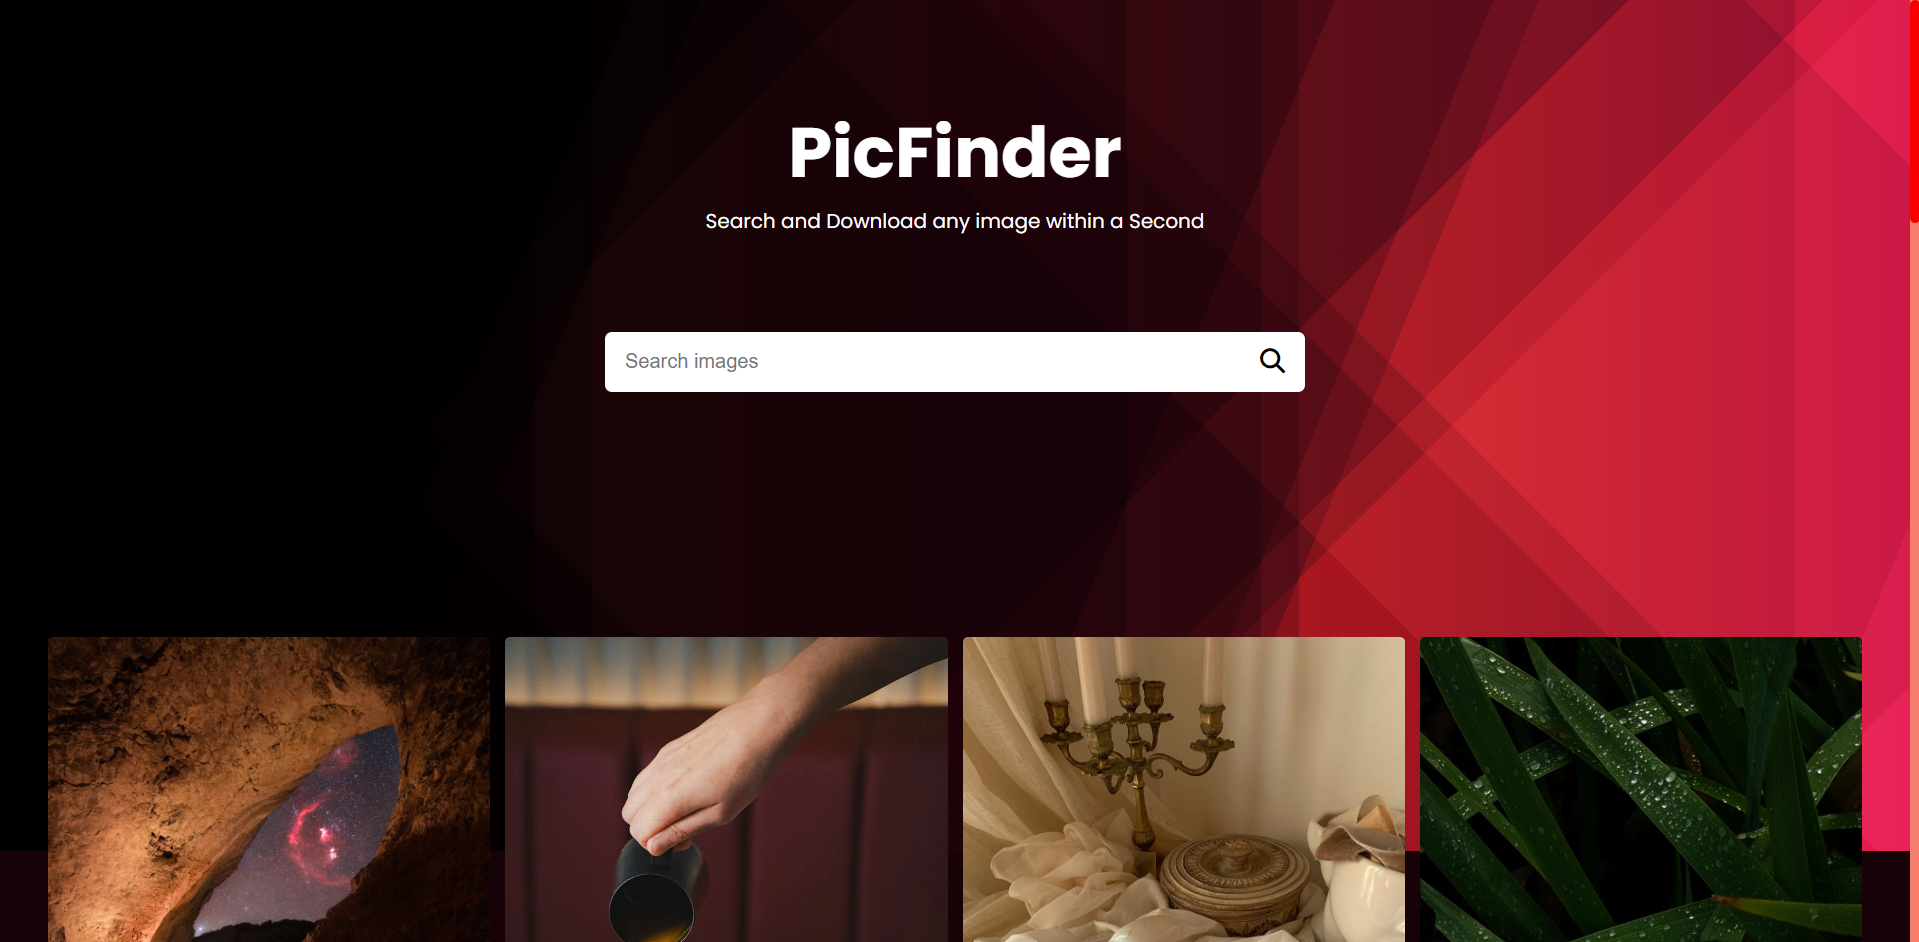
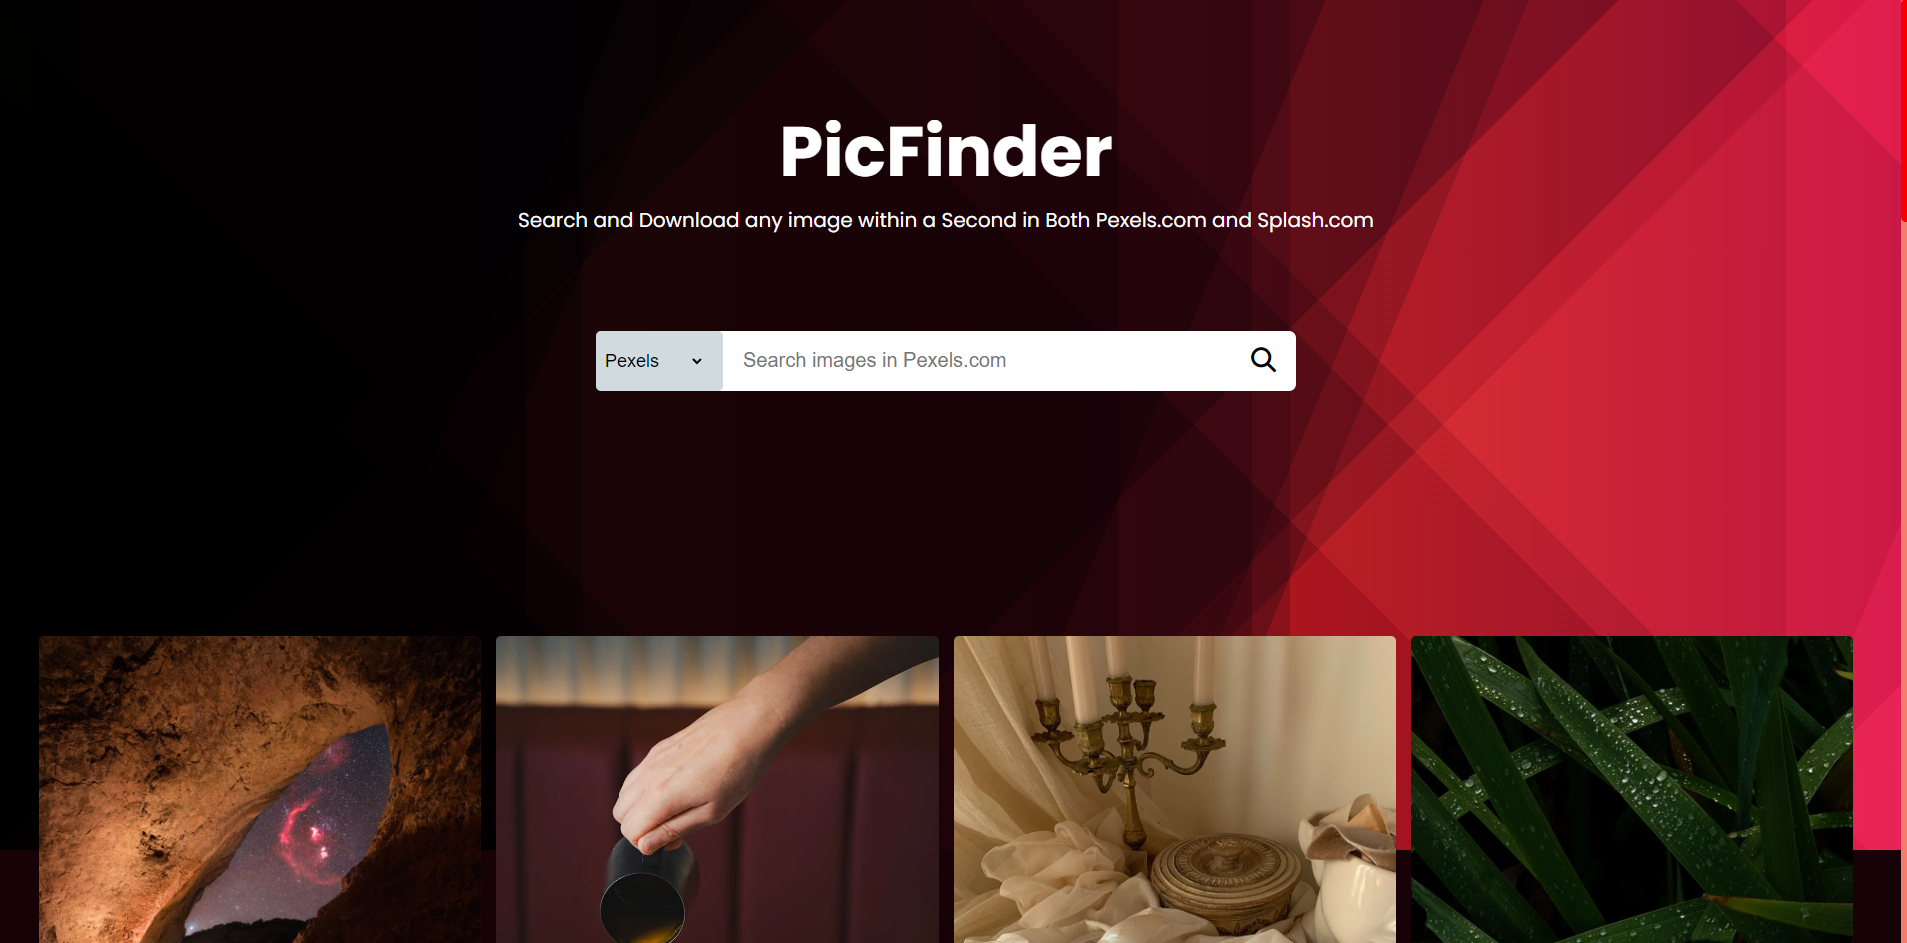
new features added

diff --git a/app.js b/app.js
@@ -5,11 +5,14 @@ const searchBtn = document.querySelector(".searchBtn");
 const lightBox = document.querySelector(".light-box");
 const closeBtn = lightBox.querySelector(".fa-xmark");
 const downloadBtn = lightBox.querySelector(".fa-download");
+const api = document.querySelector("#api");
 
-const pexelApiKey = "##################################";
+const pexelApiKey = "Su3lhzflU6mYsBsVqqfdXFP7kuoQaMGpH7PrJVYOzx8wLmQlUjOYf8VF";
+const splashApiKey ="2BsfBnNAfcAGF3oX4F_fRIlYnOXYBGYyJpeHfo8AWp4";
 
 const perPage = 20;
-let currentPage = 1;
+let currentPageP = 1;
+let currentPageS = 1;
 let searchTerm = null;
 
 
@@ -22,9 +25,7 @@ const downloadImg = (url)=>{
 
                 aTag.href = URL.createObjectURL(file);
 
-                aTag.download = new Date().getTime() //file name
-
-                //clicking <a> tag so the file download
+                aTag.download = new Date().getTime()
                 aTag.click();
 
             })
@@ -41,7 +42,7 @@ const showLightBox = (photographer, imgURL) =>{
 }
 
 
-const generateHTML = (images) =>{
+const generateHTMLPexels = (images) =>{
     imageBox.innerHTML += images.map(image =>
         `<li class="card">
             <img src="${image.src.large2x}" alt="" onclick="showLightBox('${image.photographer}', '${image.src.large2x}')">
@@ -58,9 +59,26 @@ const generateHTML = (images) =>{
     ).join("");
 }
 
+const generateHTMLSplash = (images) =>{
+    imageBox.innerHTML += images.map(image =>
+        `<li class="card">
+            <img src="${image.urls.regular}" alt="" onclick="showLightBox('${image.user.name}', '${image.urls.regular}')">
+            <div class="details">
+                <div class="photographer">
+                    <i class="fa-solid fa-camera"></i>
+                    <span>${image.user.name}</span>
+                </div>
+                <button onclick="downloadImg('${image.urls.regular}'); event.stopPropagation();">
+                    <i class="fa-solid fa-download" style="color: #000;"></i>
+                </button>
+            </div>
+        </li>`
+    ).join("");
+}
 
 
-async function getImages(apiURL){
+
+async function getImagesPexels(apiURL){
 
     loadmoreBtn.textContent = "Loading...";
     loadmoreBtn.classList.add("disabled");
@@ -68,7 +86,37 @@ async function getImages(apiURL){
     await fetch(apiURL, {
         headers: {Authorization: pexelApiKey}
     }).then(res => res.json()).then(data => {
-        generateHTML(data.photos);
+        generateHTMLPexels(data.photos);
+        loadmoreBtn.textContent = "Load More";
+        loadmoreBtn.classList.remove("disabled");
+    }).catch(()=>
+        alert("Failed to load images!!!")
+    )
+
+}
+
+async function getImagesSplash(apiURL){
+
+    loadmoreBtn.textContent = "Loading...";
+    loadmoreBtn.classList.add("disabled");
+
+    await fetch(apiURL).then(res => res.json()).then(data => {
+        generateHTMLSplash(data);
+        loadmoreBtn.textContent = "Load More";
+        loadmoreBtn.classList.remove("disabled");
+    }).catch(()=>
+        alert("Failed to load images!!!")
+    )
+}
+
+async function getImagesSplashsearch(apiURL){
+
+    loadmoreBtn.textContent = "Loading...";
+    loadmoreBtn.classList.add("disabled");
+
+    await fetch(apiURL).then(res => res.json()).then(data => {
+        generateHTMLSplash(data.results);
+        console.log(data)
         loadmoreBtn.textContent = "Load More";
         loadmoreBtn.classList.remove("disabled");
     }).catch(()=>
@@ -78,24 +126,58 @@ async function getImages(apiURL){
 }
 
 const loadmoreImages = () =>{
-    currentPage++;
-    let apiURL = `https://api.pexels.com/v1/curated?page=${currentPage}&per_page=${perPage}`;
-    apiURL = searchTerm ? `https://api.pexels.com/v1/search?query=${searchTerm}&page=${currentPage}&per_page=${perPage}` : apiURL;
-    getImages(apiURL);
-
+    if(api.value === "pexels"){
+        currentPageP++;
+        let apiURL = `https://api.pexels.com/v1/curated?page=${currentPageP}&per_page=${perPage}`;
+        apiURL = searchTerm ? `https://api.pexels.com/v1/search?query=${searchTerm}&page=${currentPageP}&per_page=${perPage}` : apiURL;
+        getImagesPexels(apiURL);
+    }
+    else{
+        currentPageS++;
+        let apiURL = `https://api.unsplash.com/photos?page=${currentPageS}&per_page=${perPage}&client_id=${splashApiKey}`;
+        apiURL = searchTerm ? `https://api.unsplash.com/search/photos?page=${currentPageS}&query=${searchTerm}&per_page=${perPage}&client_id=${splashApiKey}` : apiURL;
+        if(searchTerm != null){
+            getImagesSplashsearch(apiURL);
+        }
+        else{getImagesSplash(apiURL);}
+    }
 }
 
 
 const loadSearchImages = () =>{
     if(searchInput.value === "") return searchTerm = null;
-    currentPage = 1;
-    searchTerm = searchInput.value;
-    imageBox.innerHTML = "";
-    getImages(`https://api.pexels.com/v1/search?query=${searchTerm}&page=${currentPage}&per_page=${perPage}`)
+
+    if(api.value === "pexels"){
+        currentPageP = 1;
+        searchTerm = searchInput.value;
+        imageBox.innerHTML = "";
+        getImagesPexels(`https://api.pexels.com/v1/search?query=${searchTerm}&page=${currentPageP}&per_page=${perPage}`)
+    }
+    else if(api.value === "splash"){
+        currentPageS = 1;
+        searchTerm = searchInput.value;
+        imageBox.innerHTML = "";
+        getImagesSplashsearch(`https://api.unsplash.com/search/photos?page=${currentPageS}&query=${searchTerm}&per_page=${perPage}&client_id=${splashApiKey}`)
+    }
 }
 
 
-getImages(`https://api.pexels.com/v1/curated?page=${currentPage}&per_page=${perPage}`);
+getImagesPexels(`https://api.pexels.com/v1/curated?page=${currentPageP}&per_page=${perPage}`);
+
+api.addEventListener("change", ()=>{
+    if(api.value == 'splash'){
+        imageBox.innerHTML = "";
+        searchInput.value = "";
+        searchInput.placeholder = "Search images in Splash.com";
+        getImagesSplash(`https://api.unsplash.com/photos?page=${currentPageS}&per_page=${perPage}&client_id=${splashApiKey}`)
+    }
+    else{
+        imageBox.innerHTML = "";
+        searchInput.value = "";
+        searchInput.placeholder = "Search images in Pexels.com";
+        getImagesPexels(`https://api.pexels.com/v1/curated?page=${currentPageP}&per_page=${perPage}`);
+    }
+})
 
 loadmoreBtn.addEventListener("click", (e)=>{
     e.preventDefault()

diff --git a/style.css b/style.css
@@ -81,6 +81,33 @@ html, body{
     align-items: center;
 }
 
+.apis{
+  height: 60px;
+  width: 18%;
+  padding: 5px;
+  background-color: rgb(208, 218, 223);
+  border-radius: 5px 5px;
+  flex: 0.5;
+}
+select:focus {
+  outline:none;
+}
+
+#api{
+  height: 50px;
+  color: black;
+  border: 0;
+  font-size: 18px;
+  width: 90%;
+  background: transparent;
+}
+
+#api option{
+  color: black;
+  font-size: 18px;
+}
+
+
 .input-box input{
     background: transparent;
     border: 0;
@@ -90,6 +117,7 @@ html, body{
     font-size: 20px;
     padding: 20px;
     color: black;
+    flex: 2;
 }
 
 input:-webkit-autofill,
@@ -291,4 +319,23 @@ i{
     width: 100%;
     object-fit: contain;
     height: 100%;
+  }
+
+  @media screen and (max-width: 600px){
+    .input-box{
+      margin-top: 15%;
+    }
+    .apis{
+      flex: 1.3;
+    }
+    #api{
+      font-size: 15px;
+      font-weight: 700;
+    }
+    .input-box input{
+      font-size: 18px;
+    }
+    .fa-magnifying-glass{
+      font-size: 20px;
+    }
   }

diff --git a/index.html b/index.html
@@ -33,10 +33,16 @@
         <header>
             <div class="heading-text">
                 <h1>PicFinder</h1>
-                <p>Search and Download any image within a Second</p>
+                <p>Search and Download any image within a Second in Both Pexels.com and Splash.com</p>
             </div>
             <div class="input-box">
-                <input type="text" name="" id="searchInput" placeholder="Search images" autocomplete="flase">
+                <div class="apis">
+                    <select name="" id="api">
+                        <option value="pexels" selected>Pexels</option>
+                        <option value="splash">Splash</option>
+                    </select>
+                </div>
+                <input type="text" name="" id="searchInput" placeholder="Search images in Pexels.com" autocomplete="flase">
                 <i class="fa-solid fa-magnifying-glass searchBtn"></i>
             </div>
         </header>

diff --git a/readme.md b/readme.md
@@ -6,27 +6,41 @@
 
 ![Weather App Demo](images/demo2.png)
 
-PicFinder is a functional image gallery project built using HTML, CSS, and JavaScript. It allows users to quickly search, view, and download images from the Pexels API, all within seconds. It serves as a clone of Pexels, providing a user-friendly interface for browsing and accessing a vast collection of high-quality images.
+
+PicFinder is a web application that allows users to search and download images from Pexels and Splash using their respective APIs. It provides a seamless experience for exploring and accessing a vast collection of high-quality images from these popular stock image providers.
+
+It is a functional image gallery project built using HTML, CSS, and JavaScript and serves as a clone of Pexels, providing a user-friendly interface for browsing and accessing a vast collection of high-quality images.
 
 ## Features
 
-- **Search**: Users can search for images using keywords, allowing them to find relevant images quickly.
-  
-- **View**: The gallery displays thumbnails of the images fetched from the Pexels API. Clicking on a thumbnail opens a larger preview of the image.
-  
-- **Download**: Users can download images directly from the gallery with ease, enabling them to save their favorite images effortlessly.
+- **Search Images**: Users can search for images by entering keywords or phrases related to the desired subject or theme.
+
+- **Browse Pexels and Splash**: The application integrates with the Pexels and Splash APIs, allowing users to access and view images from both platforms through a unified interface.
+
+- **Image Preview**: Users can preview the images before downloading, ensuring they select the desired image.
+
+- **Download Images**: With a single click, users can download their chosen images in their preferred format and resolution.
 
 - **Responsive Design**: The gallery is fully responsive and works seamlessly on different devices and screen sizes.
 
 ## Technologies Used
 
-- **HTML**: Used for structuring the web pages and creating the layout of the gallery.
-  
-- **CSS**: Employed for styling the gallery, providing a visually appealing interface for users.
-  
-- **JavaScript**: Used to implement the functionality of the gallery, including fetching images from the Pexels API, handling user interactions, and more.
-  
-- **Pexels API**: PicFinder utilizes the Pexels API to fetch high-quality, royalty-free images.
+PicFinder is built using the following technologies:
+
+- **HTML**: Markup language used for creating the structure and layout of the web pages.
+
+- **CSS**: Stylesheet language used for styling and visually enhancing the application's user interface.
+
+- **JavaScript**: Programming language used for implementing the application's logic, handling user interactions, and making API requests to fetch image data from Pexels and Splash APIs.
+
+## APIs Used
+
+PicFinder utilizes the following APIs to fetch and display images:
+
+- Pexels API
+- Splash API
+
+Please note that you may need to obtain API keys or follow the respective documentation to use these APIs in your application.
 
 ## How to Use
 
@@ -49,15 +63,17 @@ To use PicFinder, follow these steps:
 
 
 ## Usage
-1. Upon opening the PicFinder gallery, you will be presented with a search bar and a gallery of images fetched from the Pexels API.
+1. Once the application is running, you will see a search input field and options to choose between Pexels and Splash sites.
 
-2. Type a keyword or phrase in the search bar and press Enter to search for images related to your query.
+2. Enter your desired search term or keywords related to the images you want to find.
 
-3. The gallery will update and display the relevant images.
+3. Select the image provider (Pexels or Splash) from the provided options.
 
-4. Click on a thumbnail to open a larger preview of the image.
+4. Click the "Search" icon to initiate the image search.
 
-5. To download the full-resolution image, click the "Download" button in the image preview.
+5. Browse through the search results and preview the images.
+
+6. Click the "Download" icon next to the desired image to download it to your local machine.
 
 ## Author
  - **Suman Shaw**
